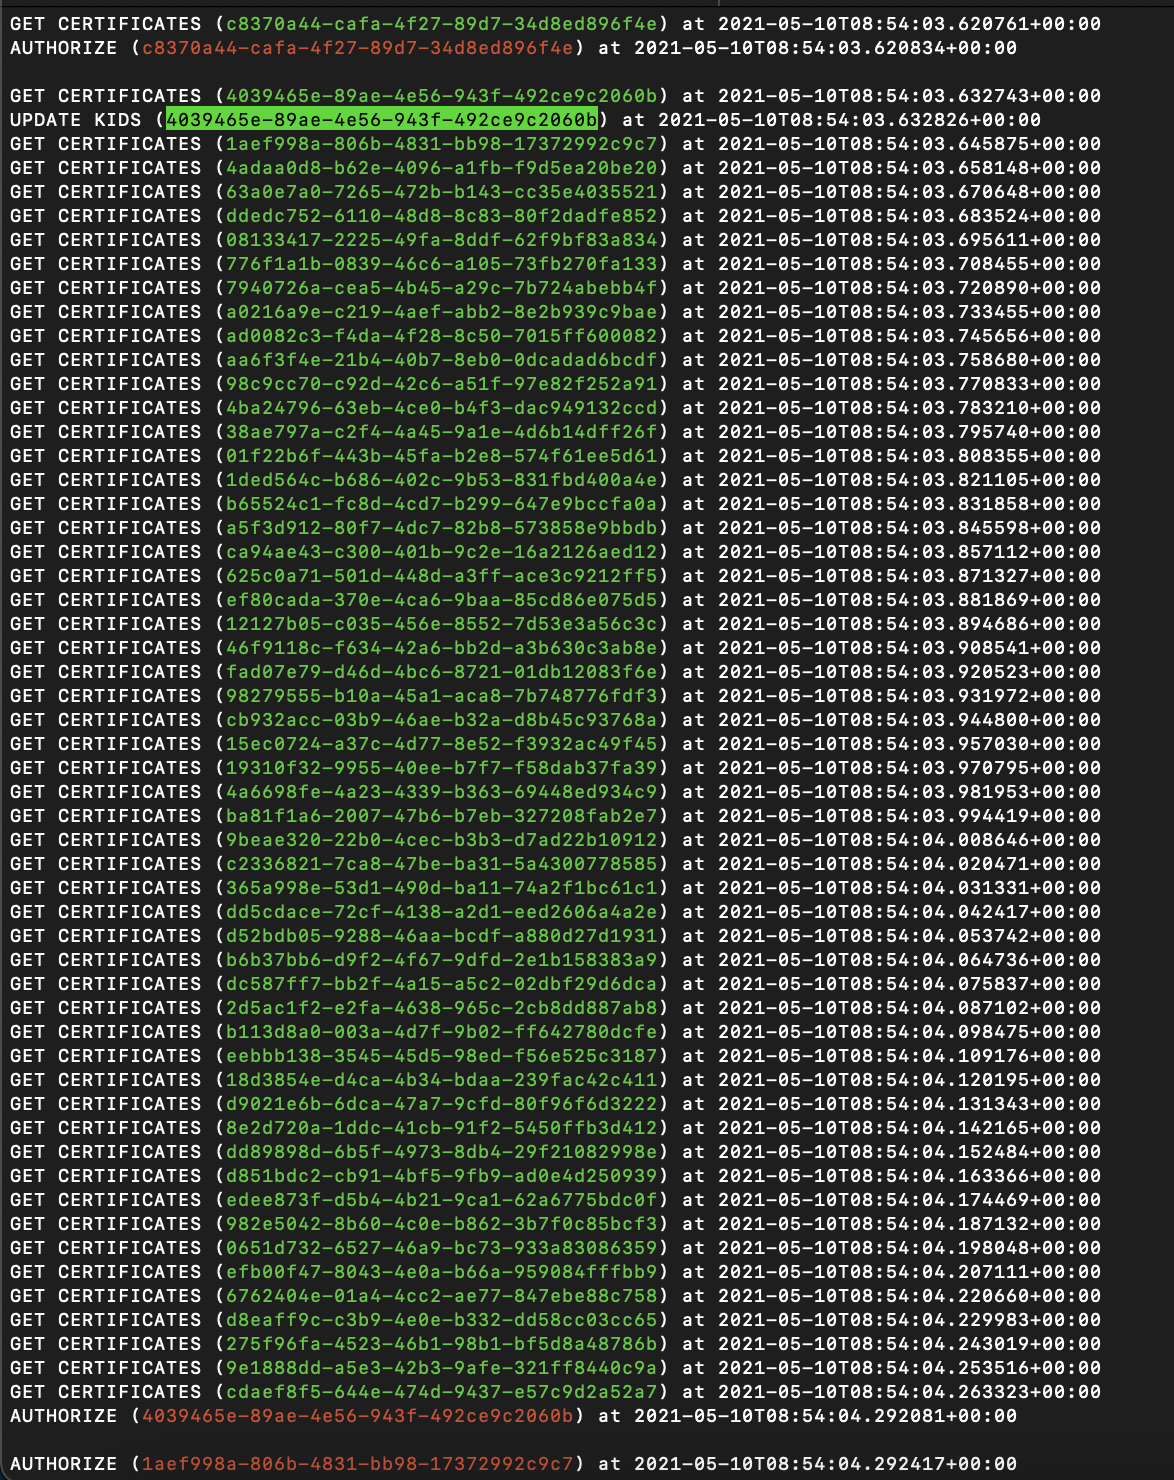
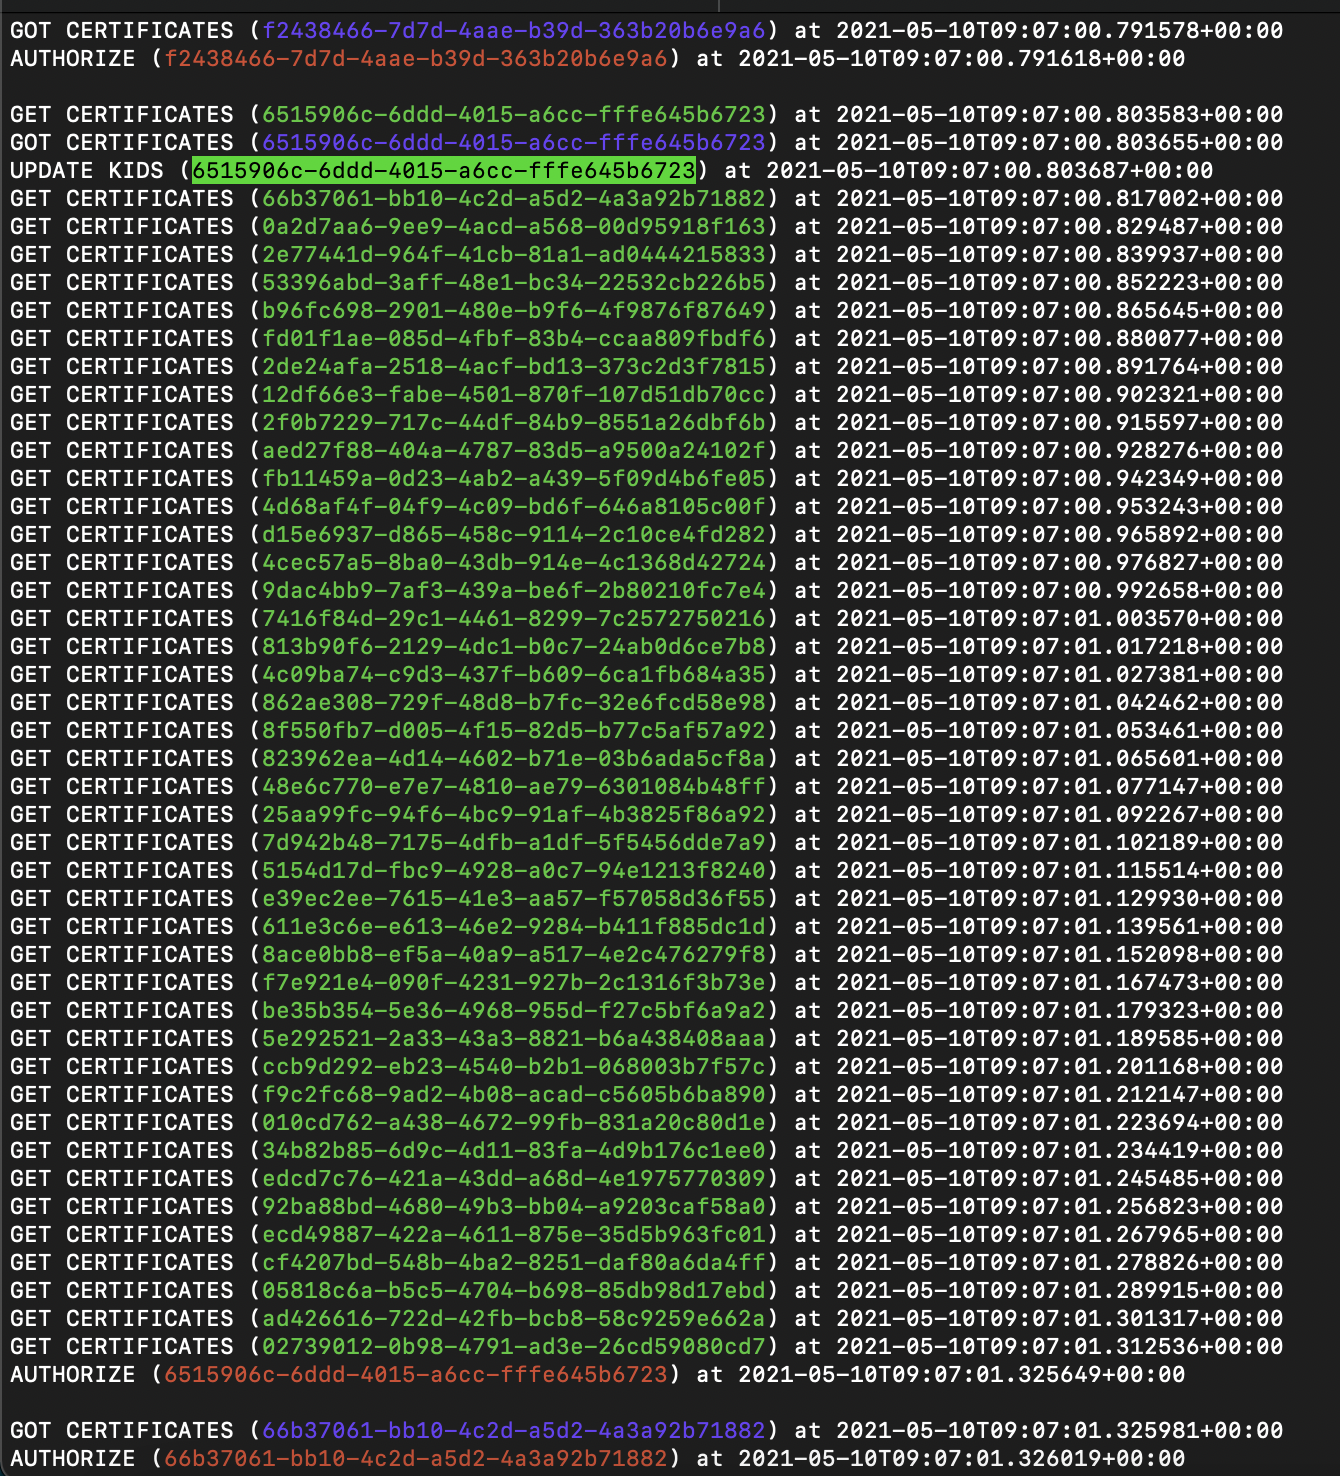
add additional log
add additional println to highlight when the certificates are read, and update screenshots accordingly

diff --git a/std-sample/src/interceptor.rs b/std-sample/src/interceptor.rs
@@ -104,6 +104,11 @@ async fn get_certificate(
         let guard = lock.read();
         (*guard).clone()
     };
+    println!(
+        "GOT CERTIFICATES ({}) at {}",
+        uid.to_string().blue(),
+        Utc::now().to_rfc3339()
+    );
     if cert.expires <= Utc::now() {
         println!(
             "UPDATE KIDS ({}) at {}",

diff --git a/tokio-sample/src/interceptor.rs b/tokio-sample/src/interceptor.rs
@@ -108,6 +108,11 @@ async fn get_certificate(
         let guard = lock.read().await;
         (*guard).clone()
     };
+    println!(
+        "GOT CERTIFICATES ({}) at {}",
+        uid.to_string().blue(),
+        Utc::now().to_rfc3339()
+    );
     if cert.expires <= Utc::now() {
         cert = {
             println!(
